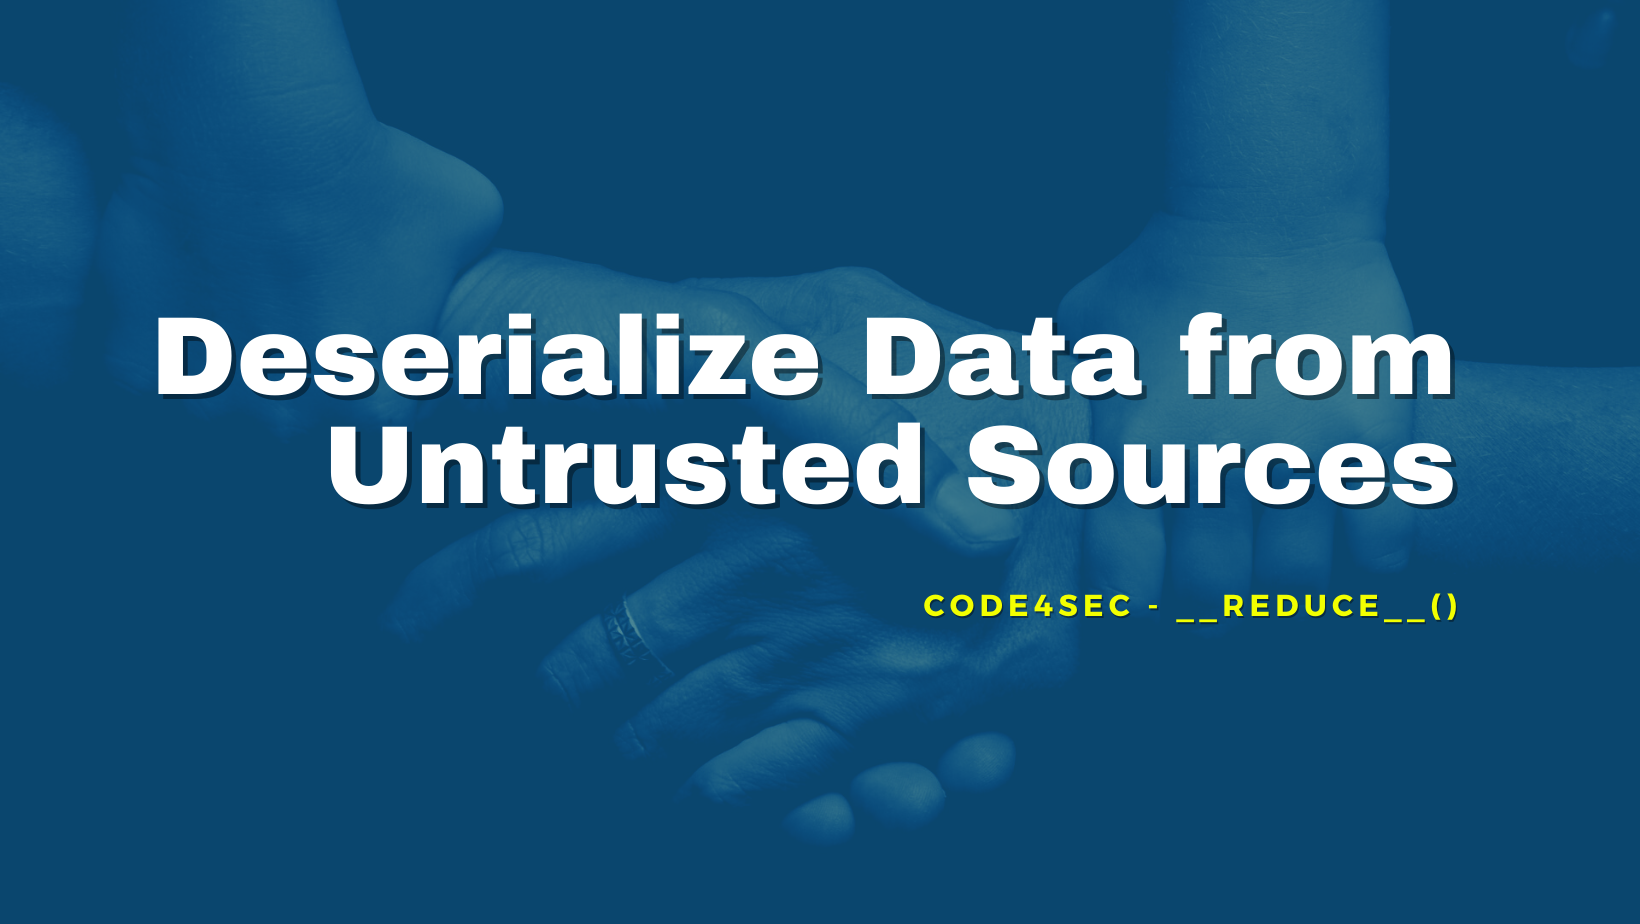
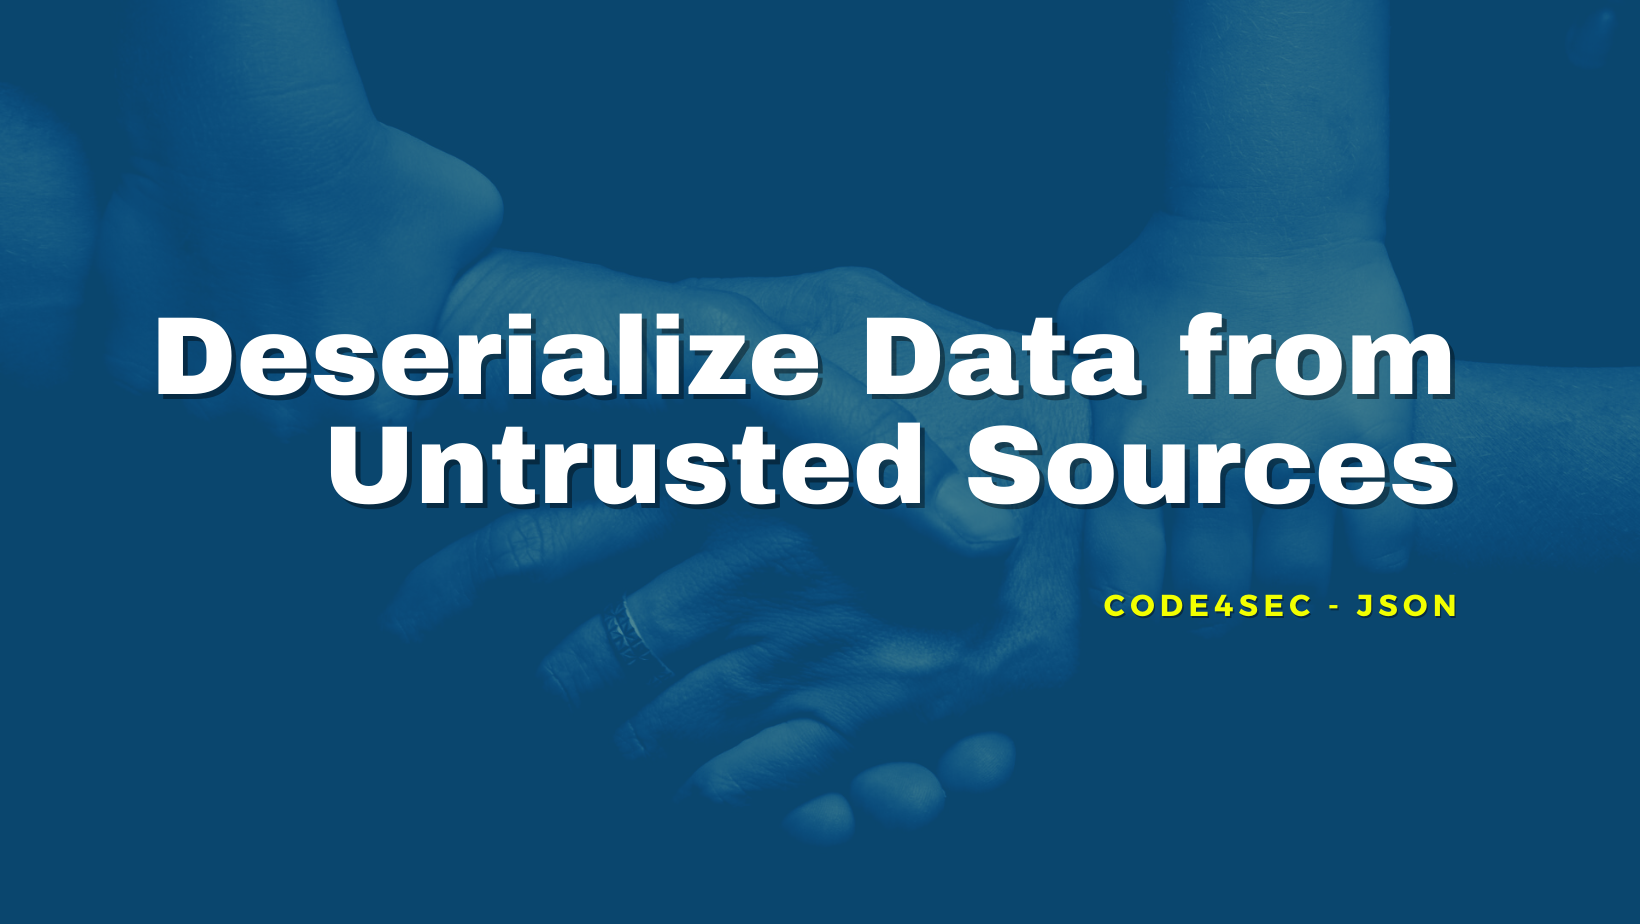
up

Changed region(s): [[0.5598, 0.6364, 0.9018, 0.697]]

diff --git a/index.md b/index.md
@@ -2,8 +2,8 @@
 
 <div align="center"> <img src="cover.png"/> </div>  
   
-Previously on my episode, we talk about vulnerability in yaml.load(), the one of most famous data-loader functions. Today I will exploiting about **Data deserialization** via **pickle** which provides for efficient binary deserialization and loading of Python datatypes.
-  
+Previously on my episode, we talk about vulnerability in yaml.load(), the one of most famous data-loader functions. Today I will exploiting about **Data deserialization** via **pickle** which provides for efficient binary deserialization and loading of Python datatypes but **inherently risky** if serialized data is tampered with.  
+    
 ## Misuse of pickle  
 **pickle()** is function to dump live Python objects into an octet stream for storage or transmission, then reconstruct them back to possibly another instance of Python.  
   
@@ -18,13 +18,13 @@ The reconstruction step is inherently risky if serialized data is tampered with.
   
 ## Solution
 **DO NOT USE pickle()** to un-pickle the data from an untrusted sources.  
-Try to use [**JSON**](https://docs.python.org/3/library/json.html#module-json) module that does not in itself create an arbitrary code execution vulnerability.
+Try to use **[JSON](https://docs.python.org/3/library/json.html#module-json)** module that does not in itself create an arbitrary code execution vulnerability.
   
 **Another secure function is done!** Secured coding is just a flipped hand when you know the hint!
 
 Let's hunt more vulnerable code to make **Code for Security** next episode. Stay tuned!  
   
-**#Un-pickle #Code4Sec**  
+**#JSON #Code4Sec**  
   
 Credit/Ref:  
 [Nelson Elhage](https://blog.nelhage.com/2011/03/exploiting-pickle/)
